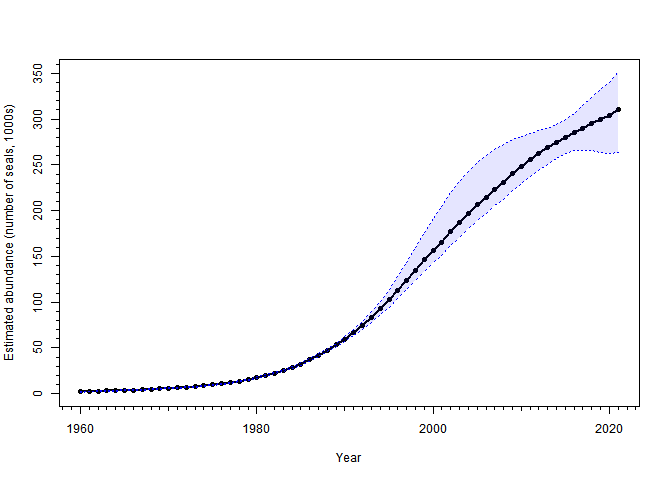
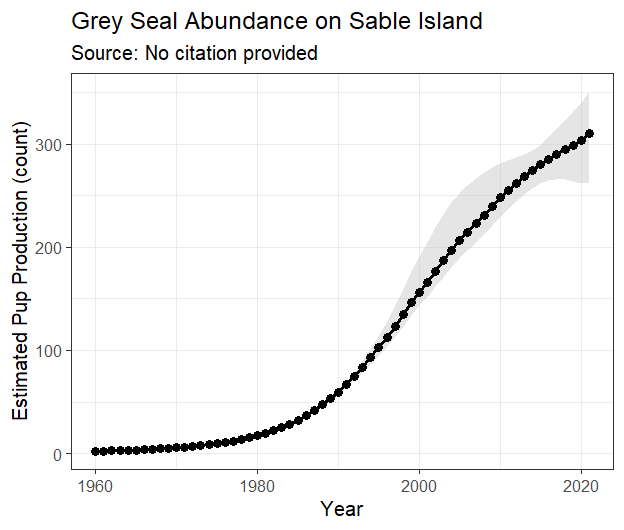
update plots in readme

diff --git a/README.md b/README.md
@@ -54,51 +54,59 @@ and customize.
 
 ``` r
 library(marea)
+```
+
+    ## Thank you for using marea. Type citation('marea') for citation information.
+
+``` r
 library(ggplot2) # For customization
 
 # 1. Load a dataset of interest (e.g., grey seal abundance)
 data("grey_seals")
 
 # 2. Inspect the object - it's a clean 'ea_data' object
-print(grey_seals)
-#> --- Ecosystem Approach (EA) Data Object ---
-#> Class:           ea_data 
-#> Data Type:       Abundance index 
-#> Species:         Grey Seal (Halichoerus grypus) 
-#> Location:        Sable Island (Maritimes Region)
-#> Time Range:      1962 - 2016 
-#> Data Dims:       55 rows x 4 cols 
-#> Units:           count 
-#> -------------------------------------------
-#> Data preview:
-#> # A tibble: 6 × 4
-#>    year value    low   high
-#>   <int> <dbl>  <dbl>  <dbl>
-#> 1  1962   363   348.   378.
-#> 2  1963   370   355.   385.
-#> 3  1964   380   365.   395.
-#> 4  1965   390   375.   405.
-#> 5  1966   410   395.   425.
-#> 6  1967   440   425.   455.
-
-# 3. Create a simple plot
-# p <- plot(grey_seals)
+ea.print(grey_seals)
 ```
 
-<img src="man/figures/README-grey-seals-base.png" width="70%" />
+    ## --- Ecosystem Approach (EA) Data Object --- 
+    ## Class:  ea_data 
+    ## Data Type:  Estimated abundance (number of seals, 1000s) 
+    ## Location:    ( Maritimes  Region ) 
+    ## Time Range:   1960  -  2021 
+    ## Units:  Not specified 
+    ## --------------------------------------------
+    ## Data Preview:
+    ##   year      low    value     high
+    ## 1 1960 1.652570 1.860824 2.396134
+    ## 2 1961 2.032521 2.263192 2.809171
+    ## 3 1962 2.407304 2.659018 3.214911
+    ## 4 1963 2.700793 2.972982 3.541202
+    ## 5 1964 2.785795 3.088971 3.684344
+    ## 6 1965 3.126289 3.449040 4.053713
+
+``` r
+# 3. Create a simple plot
+ p <- plot(grey_seals)
+```
+
+<img src="man/figures/plot_grey_seals.png" width="70%" />
+
+You can use the style argument to create a default whichis an
+appropriate base for your data, then customize it even further by
+chaining on ggplot graphics grammar.
 
 ``` r
 # 4. Customize it! Add a confidence ribbon and improve the labels.
 # The 'low' and 'high' columns are right there in the data frame.
-#custom_plot <- base_plot +
- # geom_ribbon(aes(ymin = low, ymax = high), fill = "skyblue", alpha = 0.5) +
-  #labs(
-   # title = "Grey Seal Abundance on Sable Island",
-    #y = "Estimated Pup Production (count)"
-  #) +
-  #theme_bw()
-
+custom_plot <- plot(grey_seals, style = 'ribbon') +
+  labs(
+   title = "Grey Seal Abundance on Sable Island",
+    y = "Estimated Pup Production (count)"
+  ) +
+  theme_bw()
 ```
+
+<img src="man/figures/README-grey-seals.png" width="70%" />
 
 ## Available Data
 
@@ -109,6 +117,22 @@ marea_metadata() to see what’s available.
 library(knitr)
 kable(marea_metadata())
 ```
+
+| Dataset                   | Region                      | TimeSpan  | Source                                                                                           |
+|:--------------------------|:----------------------------|:----------|:-------------------------------------------------------------------------------------------------|
+| amo                       | Northern Hemisphere (0-60N) | 1854-2025 | NOAA , <https://www1.ncdc.noaa.gov/pub/data/cmb/ersst/v5/index/ersst.v5.amo.dat>                 |
+| ao                        | Northern Hemisphere         | 1950-2025 | NOAA CPC, <https://www.cpc.ncep.noaa.gov/products/precip/CWlink/daily_ao_index/>                 |
+| azmp_bottom_temperature   | Scotian Shelf (4X, 4V, 4W)  | 1950-2024 | DFO Atlantic Zone Monitoring Program via azmpdata                                                |
+| food_habits               | Not specified               | 1995-2016 | pacea object                                                                                     |
+| glorys_bottom_temperature | Northwest Atlantic          | Unknown   | CMEMS Global Ocean Physics Reanalysis                                                            |
+| grey_seals                | Maritimes                   | 1960-2021 | No citation provided                                                                             |
+| grey_seals_2021           | Maritimes                   | 1960-2021 | No citation provided                                                                             |
+| mei                       | Equatorial Pacific          | 1979-2025 | NOAA ESRL/PSL, <https://psl.noaa.gov/enso/mei/>                                                  |
+| nao                       | North Atlantic              | 1951-2024 | NOAA NCEP via azmpdata; <https://www.ncei.noaa.gov/access/monitoring/nao/>                       |
+| npgo                      | North Pacific Gyre          | 1950-2025 | Di Lorenzo et al., <http://www.o3d.org/npgo/>                                                    |
+| oni                       | Niño 3.4 Region (Pacific)   | 1950-2025 | NOAA CPC, <https://www.cpc.ncep.noaa.gov/products/analysis_monitoring/ensostuff/ensoyears.shtml> |
+| pdo                       | North Pacific               | 1854-2025 | NOAA ERSST, <https://www.ncei.noaa.gov/access/monitoring/pdo/>                                   |
+| soi                       | Equatorial Pacific          | 1951-2025 | NOAA CPC, <https://www.cpc.ncep.noaa.gov/data/indices/soi>                                       |
 
 ## Documentation
 
